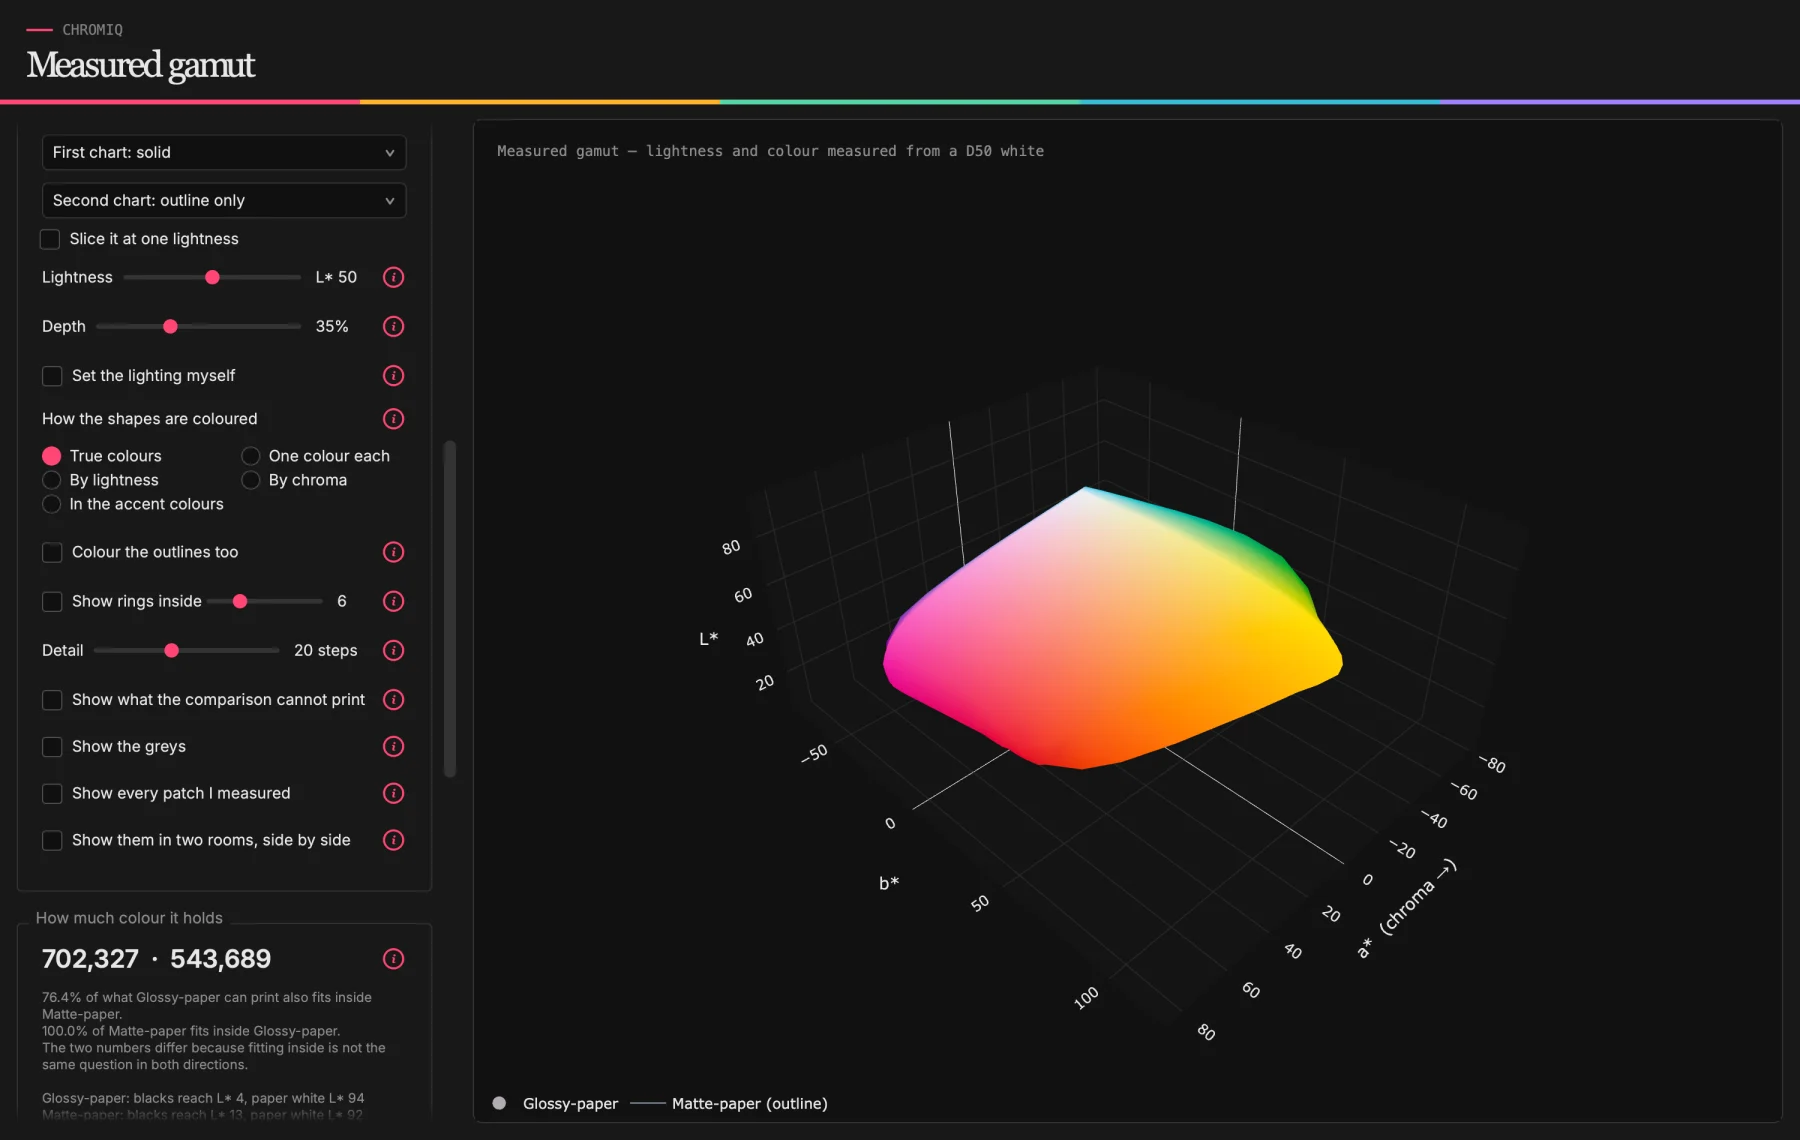
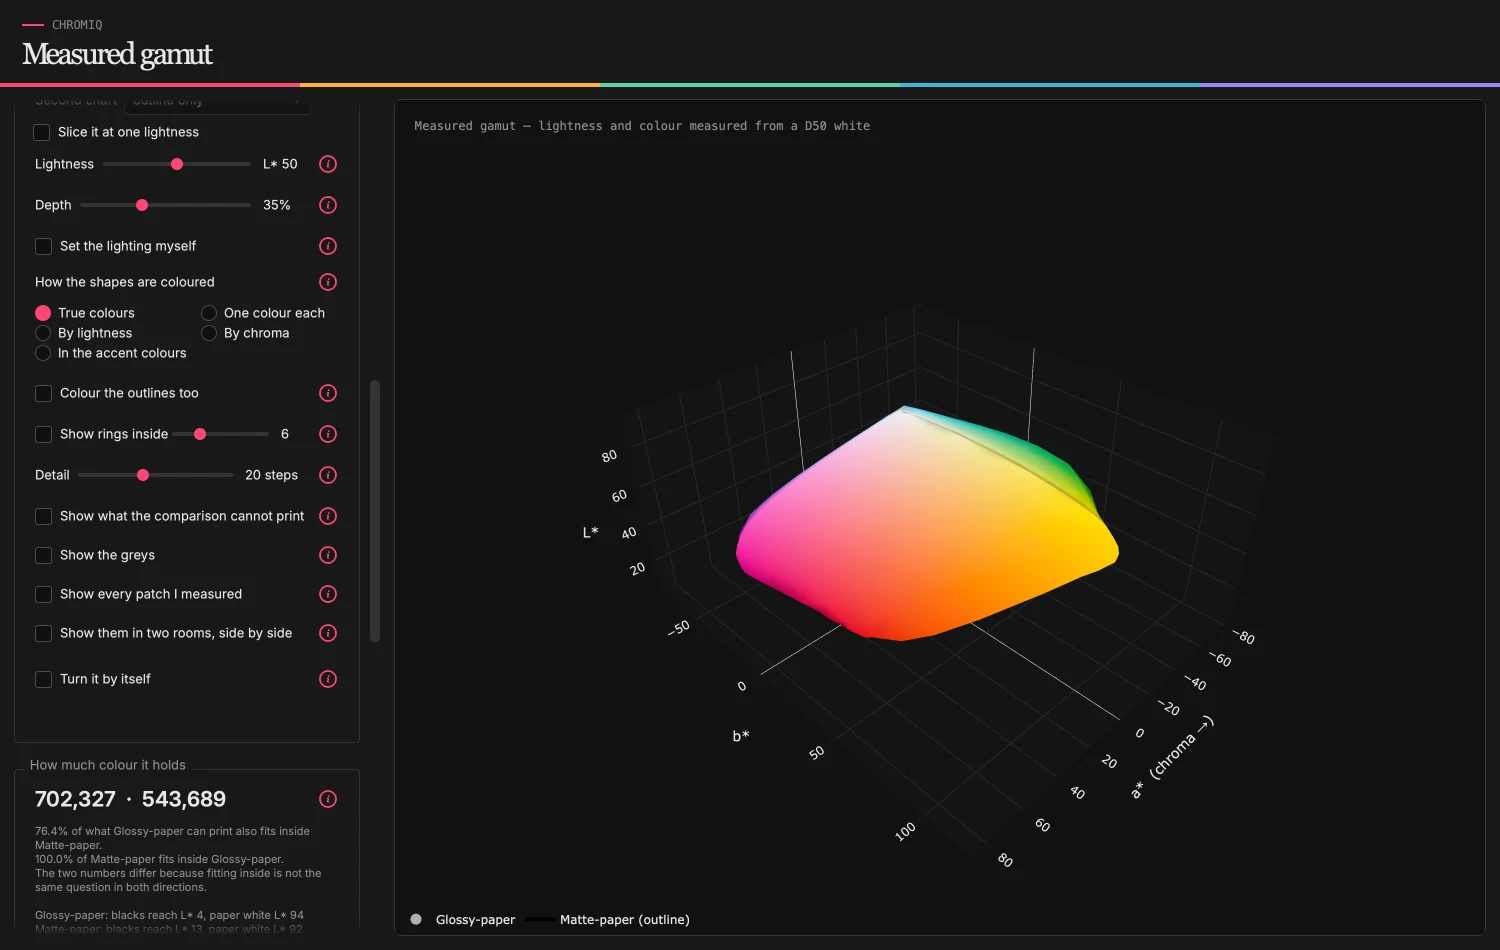
Recapture every screenshot at v1.5.0, and show the no-box picture
The visual fixes all change what the documentation shows: the lighting the
controls were never reaching, the false creases along the device cube's seams,
and the wire cage that was a dark mass on a light page. Every shot is redrawn
from the real window rather than edited.

One is new. Turning by itself cannot be shown in a still picture, but hiding
the box can, and it is the change most likely to be wanted straight away --
it is what makes a gamut worth putting in a document.

diff --git a/README.md b/README.md
@@ -355,6 +355,18 @@ version-numbered folder the official download unpacks into
 the same toolkit that reads a printed chart in the first place. Nothing nags
 you about it on startup, because most people never need it.
 
+### A picture with nothing around it
+
+<p align="center"><img src="docs/screenshots/18-no-grid.webp" width="820"
+alt="The measured gamut drawn with no box, grid or axis labels around it"></p>
+
+Untick **Show the box and its grid** and the walls, the grid, the numbers and
+the axis names all go, leaving the shape floating on the page. Keep them while
+you are reading the shape — they are what tell you how light a part of the
+surface is — and drop them for a picture going into a document, a slide or a
+forum post. It applies to the whole picture, so two rooms lose the box
+together and the pair still match.
+
 ## What it saves
 
 Nothing, unless you ask.
